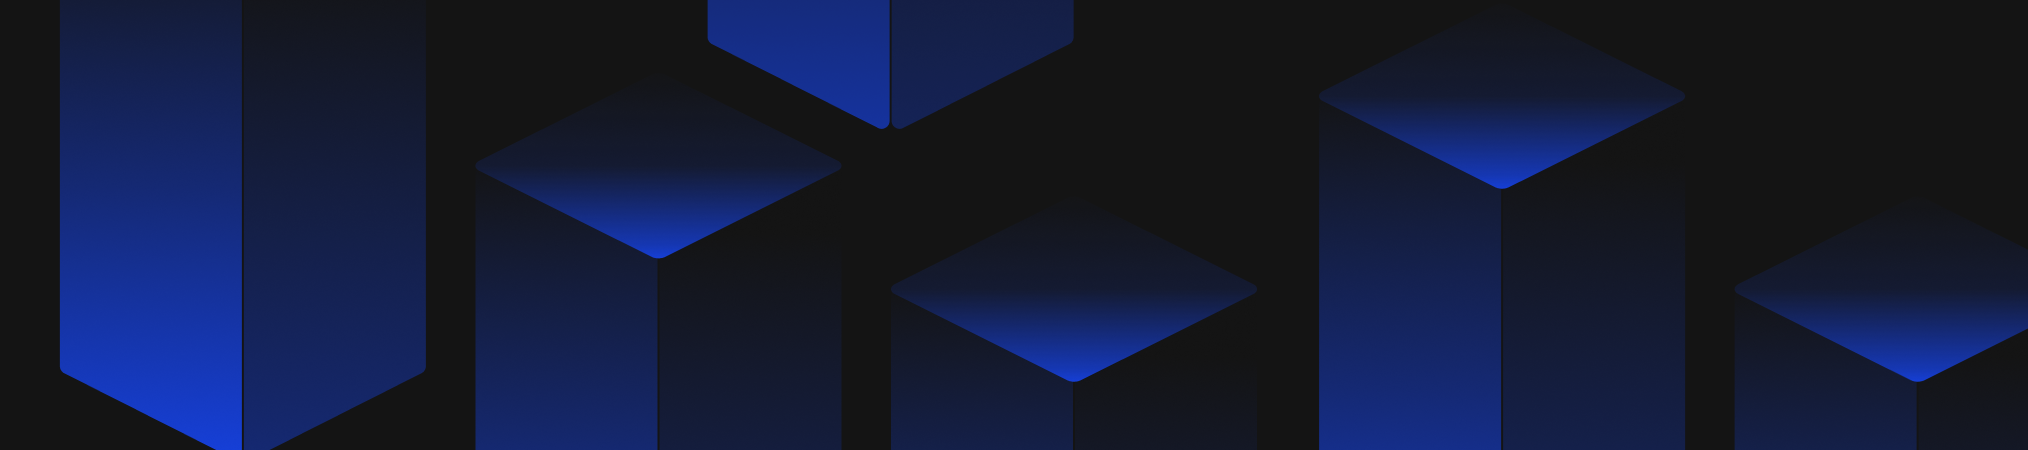
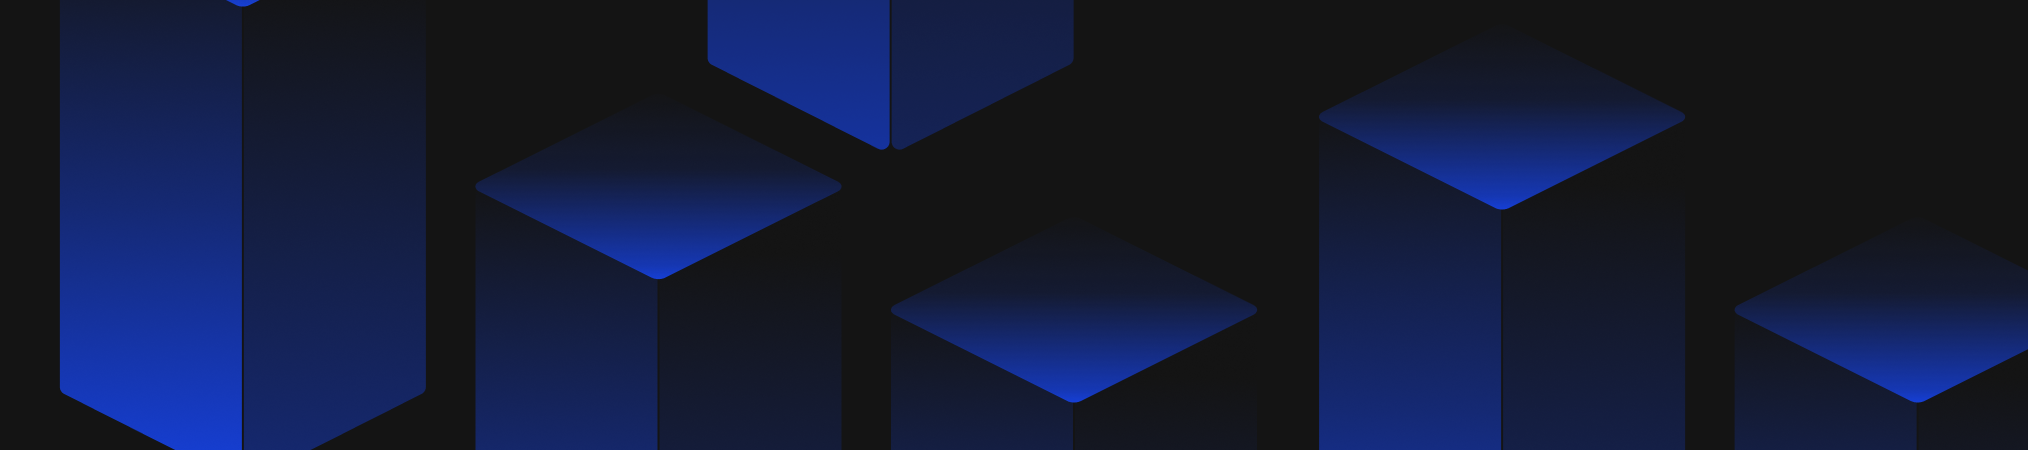
feat: 계열사 카드 그라디언트/텍스트 스타일 통일, 이메일 수정, 네비 순서 조정
- 보난자팩토리/보난자랩/바이스 카드 그라디언트 오퍼시티·위치 조정
- 보난자팩토리 카드 이미지 교체, 설명글 색상·크기를 계열사와 통일
- 이메일 도메인(contact@bonanza-factory.co.kr)으로 통일
- Nav/Footer 기업 개요 메뉴 순서 변경 (보난자 그룹을 연혁보다 위로)
- 네비게이션 밑줄 hover 애니메이션이 메가메뉴에 가려지던 z-index 문제 수정

diff --git a/src/pages/GroupIntro.jsx b/src/pages/GroupIntro.jsx
@@ -7,6 +7,19 @@ import InquiryModal from "../components/InquiryModal.jsx";
 import Orb from "../components/Orb/Orb.jsx";
 
 const PARENT_COMPANY = { name: "보난자팩토리", email: "contact@bonanza-factory.co.kr" };
+const PARENT_DESC =
+  "보난자팩토리는 고객이 가상자산 거래를 보다 안전하게 할 수 있도록 투명한 디지털자산 생태계를 만들어가는 컴플라이언스 기업입니다. 그룹의 자회사들과 함께 데이터·보안·인프라 기술 시너지를 이끌어갑니다.";
+
+// 문장이 바뀌는 지점(마침표 뒤)마다 줄바꿈해서 보여준다.
+function renderDesc(desc) {
+  const sentences = desc.split(/(?<=\.)\s+/);
+  return sentences.map((sentence, idx) => (
+    <span key={idx}>
+      {sentence}
+      {idx < sentences.length - 1 && <br />}
+    </span>
+  ));
+}
 
 const solutionItems = [
   {
@@ -478,7 +491,7 @@ export default function GroupIntro() {
             justifyContent: "space-between",
             gap: 32,
             padding: "56px",
-            background: "linear-gradient(90deg,rgba(20,20,20,1) 0%,rgba(20,20,20,0) 65%), url(/images/bonanzafactory.png)",
+            background: "linear-gradient(90deg,rgba(20,20,20,1) 0%,rgba(20,20,20,0) 70%), url(/images/bonanzafactory.png)",
             backgroundSize: "cover",
             backgroundPosition: "center",
             color: "#fff",
@@ -487,9 +500,8 @@ export default function GroupIntro() {
         >
           <div style={{ flex: "1 1 420px", minWidth: 0 }}>
             <h2 style={{ margin: 0, fontWeight: 800, fontSize: 32, letterSpacing: "-0.02em" }}>보난자팩토리</h2>
-            <p style={{ margin: "20px 0 0", maxWidth: 480, fontSize: 15, lineHeight: 1.75, color: "rgba(255,255,255,.65)" }}>
-              보난자팩토리는 고객이 가상자산 거래를 보다 안전하게 할 수 있도록 투명한 디지털자산 생태계를 만들어가는 컴플라이언스
-              기업입니다. 그룹의 자회사들과 함께 데이터·보안·인프라 기술 시너지를 이끌어갑니다.
+            <p style={{ margin: "20px 0 0", maxWidth: 500, fontSize: 14, lineHeight: 1.7, color: "rgba(255,255,255,.85)" }}>
+              {PARENT_DESC}
             </p>
           </div>
           <div className="bf-affcard-overlay">
@@ -505,7 +517,7 @@ export default function GroupIntro() {
 
         <div
           className="bf-reveal bf-affgrid"
-          style={{ display: "grid", gridTemplateColumns: "repeat(2,1fr)", gap: 24 }}
+          style={{ display: "grid", gridTemplateColumns: "repeat(auto-fit, minmax(580px, 1fr))", gap: 24 }}
         >
           {subsidiaries.map((sub) => (
             <div
@@ -527,8 +539,8 @@ export default function GroupIntro() {
             >
               <div>
                 <div style={{ fontWeight: 800, fontSize: 32, letterSpacing: "-0.02em", marginBottom: 12 }}>{sub.name}</div>
-                <p style={{ margin: 0, maxWidth: 480, fontSize: 14, lineHeight: 1.7, color: sub.descColor }}>
-                  {sub.descLong}
+                <p style={{ margin: 0, maxWidth: 500, fontSize: 14, lineHeight: 1.7, color: sub.descColor }}>
+                  {sub.key === "lab" ? sub.descLong : renderDesc(sub.descLong)}
                 </p>
               </div>
               <div className="bf-affcard-overlay">

diff --git a/src/styles/page.css b/src/styles/page.css
@@ -14,7 +14,7 @@ a:hover{color:var(--link-hover);}
 @keyframes vennBreath{0%,100%{transform:scale(1);}50%{transform:scale(1.05);}}
 .bf-navlink{position:relative;color:inherit;white-space:nowrap;transition:color .2s ease;}
 .bf-navgroup{position:relative;height:64px;display:flex;align-items:center;}
-.bf-navgroup > a::after{content:"";position:absolute;left:0;right:0;bottom:-8px;height:2px;background:var(--primary);transform:scaleX(0);transform-origin:left;transition:transform .22s ease;}
+.bf-navgroup > a::after{content:"";position:absolute;left:0;right:0;bottom:0;height:2px;background:var(--primary);transform:scaleX(0);transform-origin:left;transition:transform .22s ease;z-index:91;}
 .bf-navgroup:hover > a::after{transform:scaleX(1);}
 .bf-mega{position:fixed;left:0;right:0;top:64px;background:#fff;border-top:1px solid var(--border);box-shadow:var(--shadow-md);opacity:0;pointer-events:none;transform:translateY(6px);transition:opacity .22s ease, transform .22s ease, background .25s ease, border-color .25s ease;z-index:90;}
 .bf-mega[data-open="1"]{opacity:1;pointer-events:auto;transform:none;}

diff --git a/src/data/subsidiaries.js b/src/data/subsidiaries.js
@@ -5,7 +5,7 @@ export const subsidiaries = [
     email: "lab@bonanzafactory.co.kr",
     mark: "B",
     image: "/images/bonanzalab.png",
-    background: "linear-gradient(90deg,rgba(20,20,20,1) 0%,rgba(20,20,20,0) 65%), url(/images/bonanzalab.png)",
+    background: "linear-gradient(90deg,rgba(20,20,20,1) 0%,rgba(20,20,20,0.15) 65%), url(/images/bonanzalab.png)",
     backgroundSize: "cover",
     backgroundPosition: "center",
     color: "#fff",
@@ -35,7 +35,7 @@ export const subsidiaries = [
     email: "vice@bonanzafactory.co.kr",
     mark: "V",
     image: "/images/byth.png",
-    background: "linear-gradient(90deg,rgba(20,20,20,1) 0%,rgba(20,20,20,0) 65%), url(/images/byth.png)",
+    background: "linear-gradient(90deg,rgba(20,20,20,1) 0%,rgba(20,20,20,0.3) 65%), url(/images/byth.png)",
     backgroundSize: "cover",
     backgroundPosition: "center",
     color: "#fff",

diff --git a/src/components/Nav.jsx b/src/components/Nav.jsx
@@ -20,8 +20,8 @@ const megaGroups = [
     ),
     items: [
       { label: "회사 소개", href: "/회사소개", route: true },
-      { label: "연혁", href: "/연혁", route: true },
       { label: "보난자 그룹", href: "/계열사-소개", route: true },
+      { label: "연혁", href: "/연혁", route: true },
     ],
     image: "/images/nav/menu-1.jpg",
   },

diff --git a/src/components/Footer.jsx b/src/components/Footer.jsx
@@ -7,8 +7,8 @@ const menuGroups = [
     label: "기업 개요",
     items: [
       { label: "회사 소개", href: "/회사소개" },
-      { label: "연혁", href: "/연혁" },
       { label: "보난자 그룹", href: "/계열사-소개" },
+      { label: "연혁", href: "/연혁" },
     ],
   },
   {
